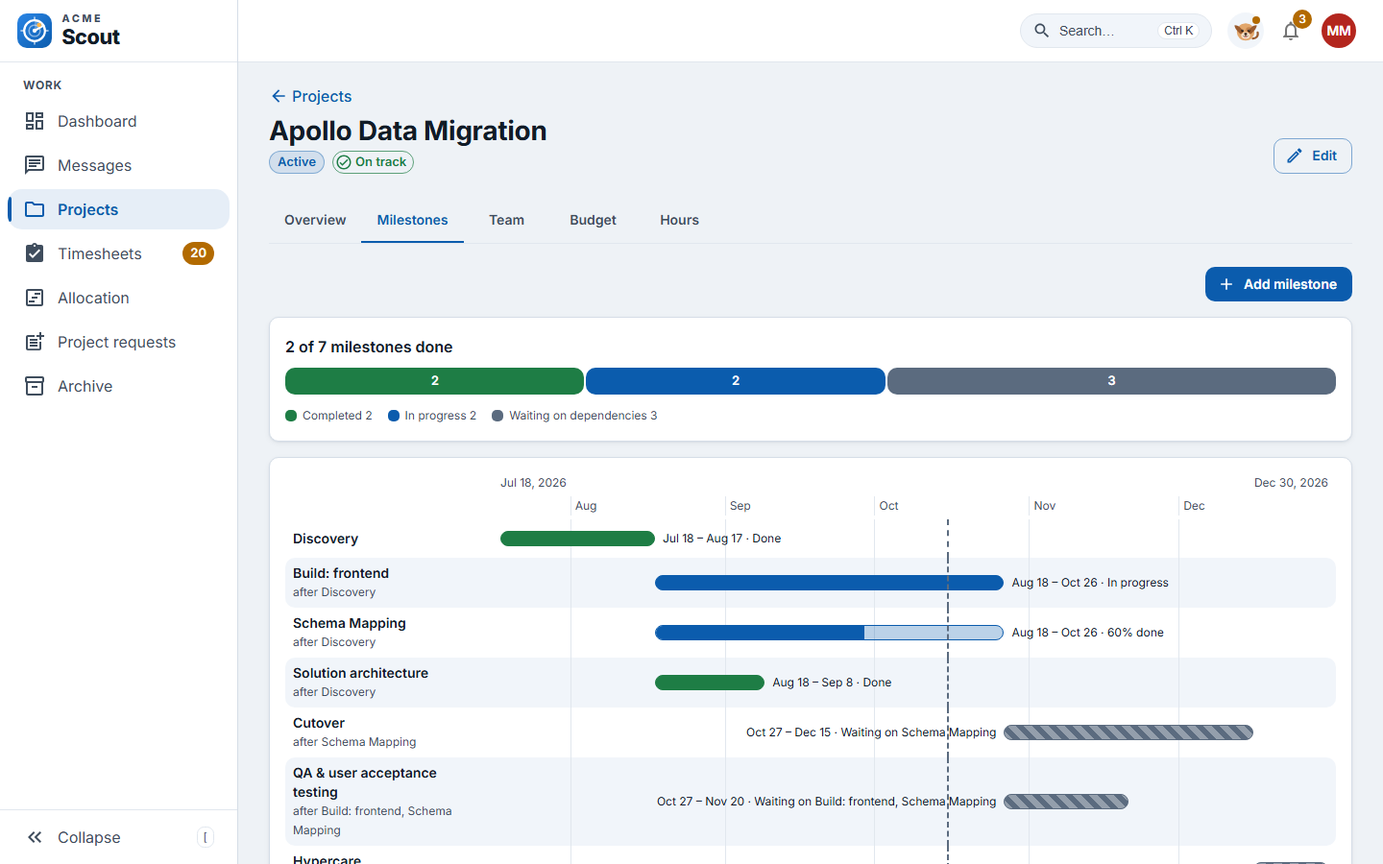
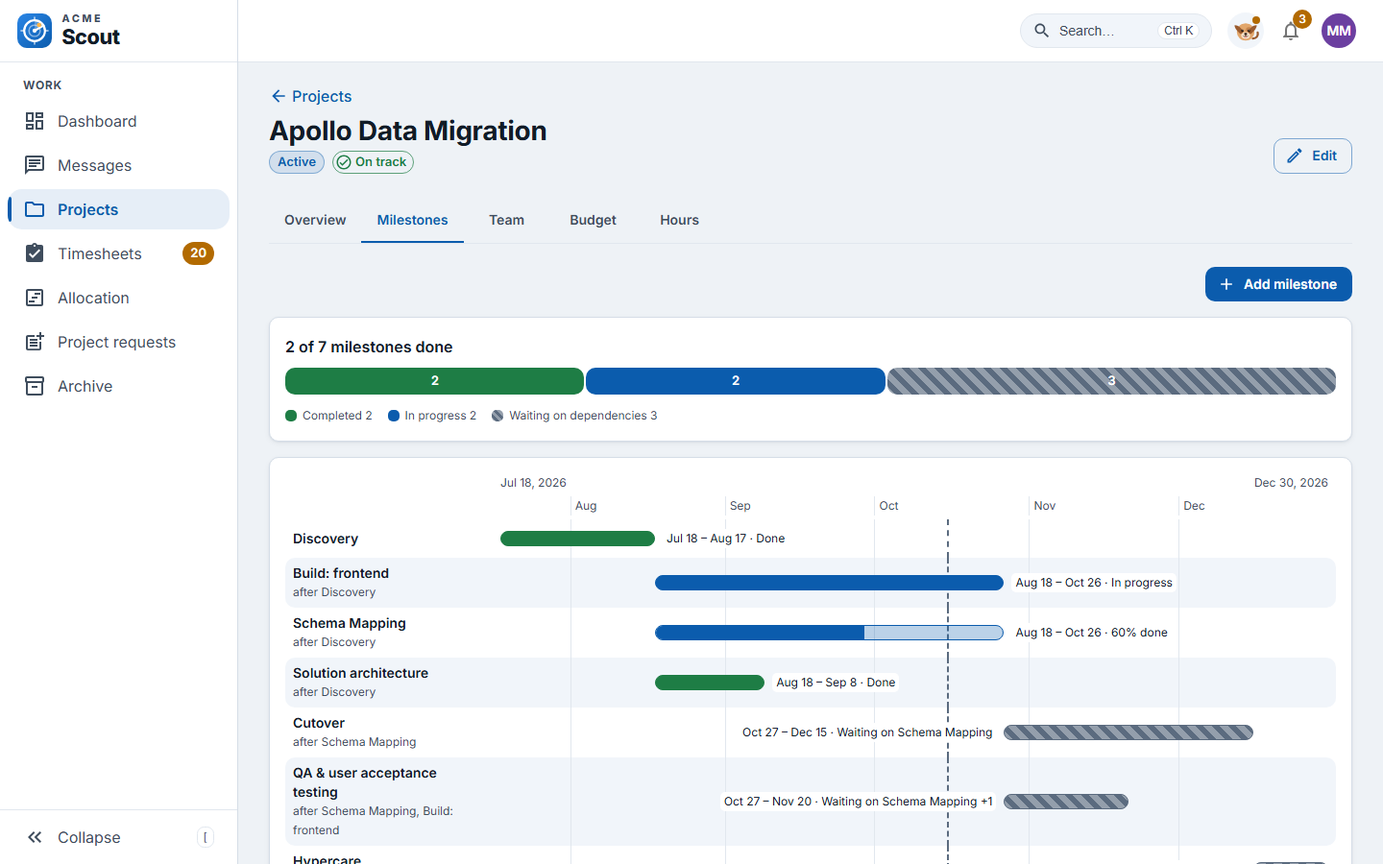
Readable charts: overdue mark never cut off, striped waiting and blocked in the state bar, no lines over labels on phones, a repeat click scrolls again

diff --git a/frontend/src/components/Timeline.jsx b/frontend/src/components/Timeline.jsx
@@ -5,13 +5,11 @@ import { chartPalette } from '../app/chartColors.js'
 import { STATUS, statusColor } from '../app/theme.js'
 import { formatDate, formatHours, todayIso } from '../lib/format.js'
 import { PRIORITY } from '../lib/labels.js'
+import { STRIPED, stripes } from './stateStripes.js'
 
 const DAY = 86400000
-// Striped bars: waiting on a predecessor, or kicked back and waiting for the manager.
-const STRIPED = new Set(['waiting', 'blocked'])
 // A name column beside the chart; under `sm` the name sits above its bar.
 const COLUMNS = { xs: 'minmax(0, 1fr)', sm: '200px minmax(0, 1fr)' }
-const stripes = (size) => `repeating-linear-gradient(45deg, rgba(255,255,255,.35) 0 ${size}px, transparent ${size}px ${size * 2}px)`
 const toTime = (iso) => Date.UTC(...String(iso).slice(0, 10).split('-').map((n, i) => (i === 1 ? Number(n) - 1 : Number(n))))
 const clamp = (n, lo, hi) => Math.min(Math.max(n, lo), hi)
 /** "2026-08-15" → "Aug 15" */
@@ -33,7 +31,7 @@ function monthMarks(start, span) {
   for (let t = Date.UTC(year, month, 1); t < start + span; t = Date.UTC(year, ++month, 1)) {
     const d = new Date(t)
     const name = d.toLocaleDateString('en-US', { month: 'short', timeZone: 'UTC' })
-    marks.push({ pct: ((t - start) / span) * 100, label: d.getUTCMonth() === 0 ? `${name} ${d.getUTCFullYear()}` : name })
+    marks.push({ pct: ((t - start) / span) * 100, january: d.getUTCMonth() === 0, label: d.getUTCMonth() === 0 ? `${name} ${d.getUTCFullYear()}` : name })
   }
   return marks
 }
@@ -67,17 +65,23 @@ function TimelineRow({ view, months, todayPct, onOpen }) {
   const filled = key === 'in_progress' && percent != null
   const clickable = Boolean(onOpen)
   // Beside the bar on `sm` and up; under it on a phone, or when the bar leaves no room on either side.
+  // On `sm` and up it sits on a paper-coloured halo, so the Today line and month lines never cross the text.
   const labelSx = placement === 'below' ? { mt: 0.25 } : {
     mt: { xs: 0.25, sm: 0 }, position: { xs: 'static', sm: 'absolute' }, top: { sm: '50%' }, transform: { sm: 'translateY(-50%)' },
     ...(placement === 'left'
-      ? { left: { sm: 0 }, right: { sm: `calc(${100 - from}% + 8px)` }, textAlign: { sm: 'right' } }
-      : { left: { sm: `calc(${from + width}% + 8px)` }, right: { sm: 0 } }),
+      ? { right: { sm: `calc(${100 - from}% + 8px)` }, maxWidth: { sm: `calc(${from}% - 8px)` }, justifyContent: { sm: 'flex-end' } }
+      : { left: { sm: `calc(${from + width}% + 8px)` }, maxWidth: { sm: `calc(${100 - from - width}% - 8px)` } }),
   }
   return (
-    <Tooltip describeChild placement="bottom-start" title={<RowTip view={view} />}>
+    <Tooltip describeChild disableInteractive placement="bottom-start" title={<RowTip view={view} />}>
       <Box component="li" tabIndex={0} aria-label={label}
         onClick={clickable ? () => onOpen(item) : undefined}
-        onKeyDown={clickable ? (e) => { if (e.key === 'Enter') onOpen(item) } : undefined}
+        onKeyDown={clickable ? (e) => {
+          if (e.key === 'Enter' || e.key === ' ') {
+            e.preventDefault() // Space must not scroll the page
+            onOpen(item)
+          }
+        } : undefined}
         sx={{ display: 'grid', gridTemplateColumns: COLUMNS, columnGap: 2, px: 1, borderRadius: 1, cursor: clickable ? 'pointer' : 'default',
           '&:nth-of-type(even)': { bgcolor: 'action.hover' }, '&:hover': { bgcolor: 'action.selected' } }}>
         <Box aria-hidden sx={{ minWidth: 0, alignSelf: 'center', pt: 0.75, pb: { xs: 0, sm: 0.75 } }}>
@@ -93,9 +97,16 @@ function TimelineRow({ view, months, todayPct, onOpen }) {
         </Box>
         <Box aria-hidden sx={{ position: 'relative', display: 'flex', flexDirection: 'column', justifyContent: 'center',
           minHeight: 40, pt: { xs: 0.5, sm: 0.75 }, pb: 0.75 }}>
-          {months.map((m) => (
-            <Box key={m.pct} sx={{ position: 'absolute', top: 0, bottom: 0, left: `${m.pct}%`, width: '1px', bgcolor: 'divider' }} />
-          ))}
+          {/* The lines: the whole cell on `sm` and up; on a phone only the bar strip, since the label sits under it. */}
+          <Box sx={{ position: 'absolute', top: 0, left: 0, right: 0, bottom: { sm: 0 }, height: { xs: 26, sm: 'auto' }, pointerEvents: 'none' }}>
+            {months.map((m) => (
+              <Box key={m.pct} sx={{ position: 'absolute', top: 0, bottom: 0, left: `${m.pct}%`, width: '1px', bgcolor: 'divider' }} />
+            ))}
+            {todayPct != null ? (
+              <Box sx={{ position: 'absolute', top: 0, bottom: 0, left: `${todayPct}%`, width: 0, borderLeft: 2, borderLeftStyle: 'dashed',
+                borderColor: (t) => chartPalette(t).reference }} />
+            ) : null}
+          </Box>
           <Box sx={{ position: 'relative', height: 16 }}>
             <Box className="bar" sx={{ position: 'absolute', left: `${from}%`, width: `${width}%`, top: 0, bottom: 0, boxSizing: 'border-box',
               borderRadius: 8, overflow: 'hidden', border: 1, borderColor: (t) => statusColor(meta, t),
@@ -104,13 +115,12 @@ function TimelineRow({ view, months, todayPct, onOpen }) {
               {filled ? <Box sx={{ width: `${percent}%`, height: '100%', bgcolor: (t) => statusColor(meta, t) }} /> : null}
             </Box>
           </Box>
-          {todayPct != null ? (
-            <Box sx={{ position: 'absolute', top: 0, bottom: 0, left: `${todayPct}%`, width: 0, borderLeft: 2, borderLeftStyle: 'dashed',
-              borderColor: (t) => chartPalette(t).reference }} />
-          ) : null}
-          <Typography variant="caption" component="div" noWrap sx={{ color: 'text.primary', ...labelSx }}>
-            {text}
-            {overdue ? <>{' · '}<Box component="span" sx={{ color: 'error.main', fontWeight: 600 }}>⚠ Overdue</Box></> : null}
+          <Typography variant="caption" component="div"
+            sx={{ color: 'text.primary', display: { sm: 'flex' }, alignItems: 'baseline', whiteSpace: { xs: 'normal', sm: 'nowrap' },
+              position: 'relative', zIndex: 1, bgcolor: { sm: 'background.paper' }, borderRadius: 0.5, px: { sm: 0.5 }, ...labelSx }}>
+            {/* The overdue mark is its own element, so ellipsis can cut the dates but never the mark. */}
+            <Box component="span" sx={{ minWidth: 0, overflow: { sm: 'hidden' }, textOverflow: { sm: 'ellipsis' } }}>{text}</Box>
+            {overdue ? <Box component="span" sx={{ flexShrink: 0, ml: 0.75, color: 'error.main', fontWeight: 600 }}>⚠ Overdue</Box> : null}
           </Typography>
         </Box>
       </Box>
@@ -151,12 +161,13 @@ export default function Timeline({ items, range, onOpen }) {
       completed: 'Done',
       in_progress: percent == null ? 'In progress' : `${percent}% done`,
       ready_for_review: 'Ready for review',
-      waiting: waitingOn.length ? `Waiting on ${waitingOn.join(', ')}` : 'Waiting',
+      waiting: waitingOn.length ? `Waiting on ${waitingOn[0]}${waitingOn.length > 1 ? ` +${waitingOn.length - 1}` : ''}` : 'Waiting',
       blocked: 'Blocked',
     }[key] ?? 'Not started'
     const label = [item.name, `${formatDate(item.start_date)} to ${formatDate(item.end_date)}`, meta.label,
       key !== 'completed' && percent != null ? `${percent}% done` : '', overdue ? 'overdue' : '',
-      PRIORITY[item.priority] ? `${PRIORITY[item.priority]} priority` : ''].filter(Boolean).join(', ')
+      key === 'waiting' && waitingOn.length ? `waiting on ${waitingOn.join(', ')}` : '',
+      PRIORITY[item.priority] ? `${PRIORITY[item.priority]} priority` : '', item.is_assignee ? 'yours' : ''].filter(Boolean).join(', ')
     return { item, key, meta, percent, overdue, after: before.map((p) => p.name), waitingOn, from, width, placement,
       text: `${shortDate(item.start_date)} – ${shortDate(item.end_date)} · ${state}`, label }
   })
@@ -174,7 +185,7 @@ export default function Timeline({ items, range, onOpen }) {
             <Typography variant="caption" sx={{ color: 'text.secondary' }}>{formatDate(range.end)}</Typography>
           </Stack>
           <Box sx={{ position: 'relative', height: 20 }}>
-            {months.map((m, i) => (i % labelEvery === 0 ? (
+            {months.map((m, i) => (i % labelEvery === 0 || m.january ? (
               <Typography key={m.pct} variant="caption" sx={{ position: 'absolute', top: 0, bottom: 0, left: `${m.pct}%`, pl: 0.5,
                 borderLeft: 1, borderColor: 'divider', color: 'text.secondary', whiteSpace: 'nowrap' }}>{m.label}</Typography>
             ) : null))}

diff --git a/frontend/src/components/timeline.test.jsx b/frontend/src/components/timeline.test.jsx
@@ -63,7 +63,12 @@ describe('Timeline', () => {
     ]} />)
     // Exactly one: the finished milestone and the one ending today are not late.
     expect(screen.getAllByText('⚠ Overdue')).toHaveLength(1)
-    expect(screen.getByText(/Aug 1 – Sep 30 · 40% done/)).toHaveTextContent('Aug 1 – Sep 30 · 40% done · ⚠ Overdue')
+    // The mark sits in its own element, outside the text that ellipsis can cut, and never shrinks.
+    const mark = screen.getByText('⚠ Overdue')
+    const dates = screen.getByText('Aug 1 – Sep 30 · 40% done')
+    expect(dates).not.toContainElement(mark)
+    expect(mark.parentElement).toBe(dates.parentElement)
+    expect(mark).toHaveStyle({ flexShrink: '0' })
     expect(row('Build')).toHaveAccessibleName('Build, Aug 1, 2026 to Sep 30, 2026, In progress, 40% done, overdue, High priority')
     expect(row('Plan')).not.toHaveAccessibleName(/overdue/)
     expect(row('Ship')).not.toHaveAccessibleName(/overdue/)
@@ -94,6 +99,43 @@ describe('Timeline', () => {
     expect(screen.getByText('Sep 1 – Oct 19 · Waiting on Discovery')).toBeInTheDocument()
     expect(within(row('Cutover')).getByText('after Discovery, Mapping')).toBeInTheDocument()
     expect(row('Cutover')).toHaveAccessibleName(/Waiting on dependencies/)
+  })
+
+  test('a milestone waiting on several others says "+1" on its bar, and keeps the full list in its name and tooltip', async () => {
+    const user = userEvent.setup()
+    renderWithProviders(<Timeline range={range} items={[
+      ms({ id: 'm1', name: 'Discovery', status: 'in_progress', display_status: 'in_progress' }),
+      ms({ id: 'm2', name: 'Mapping', status: 'in_progress', display_status: 'in_progress' }),
+      ms({ id: 'm3', name: 'Cutover', start_date: '2026-09-01', end_date: '2026-10-19', display_status: 'waiting', predecessors: ['m1', 'm2'] }),
+    ]} />)
+    expect(screen.getByText('Sep 1 – Oct 19 · Waiting on Discovery +1')).toBeInTheDocument()
+    expect(row('Cutover')).toHaveAccessibleName(/Waiting on dependencies, waiting on Discovery, Mapping/)
+    await user.hover(row('Cutover'))
+    expect(await screen.findByRole('tooltip')).toHaveTextContent('Waiting on Discovery, Mapping')
+  })
+
+  test('waiting and blocked bars and legend swatches are striped, the others plain', () => {
+    const { container } = renderWithProviders(<Timeline range={range} items={[
+      ms({ id: 'm1', name: 'Wait', display_status: 'waiting' }),
+      ms({ id: 'm2', name: 'Stuck', status: 'blocked', display_status: 'blocked' }),
+      ms({ id: 'm3', name: 'Plain' }),
+    ]} />)
+    const bars = container.querySelectorAll('.bar')
+    expect(bars[0].style.backgroundImage || getComputedStyle(bars[0]).backgroundImage).toContain('repeating-linear-gradient')
+    expect(getComputedStyle(bars[1]).backgroundImage).toContain('repeating-linear-gradient')
+    expect(getComputedStyle(bars[2]).backgroundImage).not.toContain('repeating-linear-gradient')
+  })
+
+  test('your own milestone is "yours" in its row name', () => {
+    renderWithProviders(<Timeline range={range} items={[ms({ id: 'm1', name: 'Build', is_assignee: true }), ms({ id: 'm2', name: 'Plan' })]} />)
+    expect(row('Build')).toHaveAccessibleName(/, Medium priority, yours$/)
+    expect(row('Plan')).not.toHaveAccessibleName(/yours/)
+  })
+
+  test('January keeps its label, and so the year, when a long range thins the month labels', () => {
+    renderWithProviders(<Timeline range={{ start: '2025-11-10', end: '2027-03-01' }} items={[ms({ id: 'm1', name: 'Build' })]} />)
+    expect(screen.getByText('Jan 2026', { exact: true })).toBeInTheDocument()
+    expect(screen.getByText('Jan 2027', { exact: true })).toBeInTheDocument()
   })
 
   test('focus shows the tooltip with people and hours against the estimate', async () => {
@@ -142,6 +184,16 @@ describe('Timeline', () => {
     await user.click(row('Plan'))
     expect(onOpen).toHaveBeenLastCalledWith(plan)
     expect(onOpen).toHaveBeenCalledTimes(2)
+  })
+
+  test('Space opens like Enter', async () => {
+    const user = userEvent.setup()
+    const onOpen = vi.fn()
+    const build = ms({ id: 'm1', name: 'Build' })
+    renderWithProviders(<Timeline range={range} items={[build]} onOpen={onOpen} />)
+    await user.tab()
+    await user.keyboard(' ')
+    expect(onOpen).toHaveBeenCalledWith(build)
   })
 
   test('click and Enter do nothing without onOpen', async () => {

diff --git a/frontend/src/features/milestones/MilestonesTab.jsx b/frontend/src/features/milestones/MilestonesTab.jsx
@@ -10,7 +10,7 @@ import {
   Alert, Box, Button, Card, CardContent, Chip, Collapse, IconButton, LinearProgress, Skeleton, Stack, Tooltip, Typography,
 } from '@mui/material'
 import { Fragment, useEffect, useRef, useState } from 'react'
-import { useSearchParams } from 'react-router-dom'
+import { useLocation, useSearchParams } from 'react-router-dom'
 import {
   useArchiveMilestone, useClaimMilestone, useMembers, useMilestones, useMilestoneStatus,
 } from '../../api/queries.js'
@@ -46,7 +46,7 @@ const PANELS = [
   { value: 'notes', label: 'Notes', Icon: ChatBubble },
 ]
 
-function MilestoneCard({ m, project, names, manage, onEdit, onArchive, extra, conversations, focused }) {
+function MilestoneCard({ m, project, names, manage, onEdit, onArchive, extra, conversations, focused, navKey }) {
   const status = useMilestoneStatus(m.project_id)
   const claim = useClaimMilestone(m.project_id)
   // A link straight to this milestone (from the bell) opens its details and scrolls it into view.
@@ -56,7 +56,7 @@ function MilestoneCard({ m, project, names, manage, onEdit, onArchive, extra, co
   const ref = useRef(null)
   useEffect(() => {
     if (focused) ref.current?.scrollIntoView?.({ behavior: 'smooth', block: 'start' })
-  }, [focused])
+  }, [focused, navKey]) // a repeat click on the same row is a new navigation, so it scrolls again
   const waitingOn = m.predecessors.map((id) => names[String(id)]).filter(Boolean)
   const supporting = new Set((m.supporting_ids ?? []).map(String))
   const actions = statusActions(m, { manager: manage, assignee: m.is_assignee })
@@ -182,6 +182,7 @@ export default function MilestonesTab({ project, manage, extra }) {
   const archive = useArchiveMilestone(project.id)
   const conversations = useConversations()  // which milestones already have a discussion the viewer is in
   const [params, setParams] = useSearchParams()
+  const navKey = useLocation().key
   const focus = params.get('milestone')
   const [editing, setEditing] = useState(null)
   const [archiving, setArchiving] = useState(null)
@@ -212,11 +213,11 @@ export default function MilestonesTab({ project, manage, extra }) {
       <MilestoneStatusBar items={items} />
       {items.length ? (
         <MilestoneTimeline items={items} range={{ start: project.start_date, end: project.predicted_end_date }}
-          onOpen={(m) => setParams((p) => { p.set('milestone', m.id); return p })} />
+          onOpen={(m) => setParams((p) => { p.set('milestone', m.id); return p }, { replace: true })} />
       ) : null}
       {items.map((m) => (
         <MilestoneCard key={m.id} m={m} project={project} names={names} manage={manage} extra={extra}
-          conversations={conversations.data?.items} focused={focus === String(m.id)}
+          conversations={conversations.data?.items} focused={focus === String(m.id)} navKey={navKey}
           onEdit={(milestone) => setEditing({ milestone })} onArchive={setArchiving} />
       ))}
       {editing ? (

diff --git a/frontend/src/components/MilestoneStatusBar.jsx b/frontend/src/components/MilestoneStatusBar.jsx
@@ -1,6 +1,7 @@
 import { Box, Paper, Stack, Tooltip, Typography } from '@mui/material'
 import { useEffect, useId, useState } from 'react'
 import { STATUS, statusColor } from '../app/theme.js'
+import { STRIPED, stripes } from './stateStripes.js'
 
 // The order the states read in, left to right.
 const ORDER = ['completed', 'ready_for_review', 'in_progress', 'not_started', 'waiting', 'blocked']
@@ -45,7 +46,7 @@ export default function MilestoneStatusBar({ items }) {
   return (
     <Paper component="section" variant="outlined" aria-labelledby={headingId} sx={{ p: 2 }}>
       <Typography id={headingId} variant="subtitle1" component="h3" sx={{ mb: 1 }}>
-        {`${counts.completed} of ${total} milestones done`}
+        {`${counts.completed} of ${total} ${total === 1 ? 'milestone' : 'milestones'} done`}
       </Typography>
       <Stack ref={barRef} direction="row" sx={{ gap: `${GAP}px`, height: 28 }}>
         {states.map((key) => {
@@ -56,7 +57,7 @@ export default function MilestoneStatusBar({ items }) {
               <Box role="img" aria-label={text} data-count={n}
                 sx={{ width: `${(n / total) * 100}%`, borderRadius: 1, display: 'flex', alignItems: 'center', justifyContent: 'center',
                   bgcolor: (t) => statusColor(STATUS[key], t), color: (t) => t.palette.getContrastText(statusColor(STATUS[key], t)),
-                  fontSize: '0.8125rem', fontWeight: 600, overflow: 'hidden' }}>
+                  fontSize: '0.8125rem', fontWeight: 600, overflow: 'hidden', backgroundImage: STRIPED.has(key) ? stripes(6) : 'none' }}>
                 {(n / total) * room >= MIN_LABEL ? n : null}
               </Box>
             </Tooltip>
@@ -67,7 +68,8 @@ export default function MilestoneStatusBar({ items }) {
         sx={{ listStyle: 'none', p: 0, m: 0, mt: 1.5, gap: 2, flexWrap: 'wrap' }}>
         {states.map((key) => (
           <Stack component="li" key={key} direction="row" sx={{ alignItems: 'center', gap: 0.75 }}>
-            <Box aria-hidden sx={{ width: 12, height: 12, borderRadius: 0.5, bgcolor: (t) => statusColor(STATUS[key], t) }} />
+            <Box aria-hidden sx={{ width: 12, height: 12, borderRadius: 0.5, bgcolor: (t) => statusColor(STATUS[key], t),
+              backgroundImage: STRIPED.has(key) ? stripes(3) : 'none' }} />
             <Typography variant="caption" sx={{ color: 'text.secondary' }}>{`${STATUS[key].label} ${counts[key]}`}</Typography>
           </Stack>
         ))}

diff --git a/frontend/src/components/milestoneStatusBar.test.jsx b/frontend/src/components/milestoneStatusBar.test.jsx
@@ -33,9 +33,28 @@ describe('MilestoneStatusBar', () => {
     ])
   })
 
+  test('the heading is singular for one milestone', () => {
+    const { unmount } = renderWithProviders(<MilestoneStatusBar items={[ms(1, 'completed')]} />)
+    expect(screen.getByRole('heading', { name: '1 of 1 milestone done' })).toBeInTheDocument()
+    unmount()
+    renderWithProviders(<MilestoneStatusBar items={[ms(1, 'in_progress')]} />)
+    expect(screen.getByRole('heading', { name: '0 of 1 milestone done' })).toBeInTheDocument()
+  })
+
+  test('waiting and blocked segments and swatches are striped so they differ from not started', () => {
+    const { container } = renderWithProviders(<MilestoneStatusBar items={[ms(1, 'not_started'), ms(2, 'waiting'), ms(3, 'blocked')]} />)
+    const [plain, waiting, blocked] = screen.getAllByRole('img')
+    const striped = (el) => getComputedStyle(el).backgroundImage.includes('repeating-linear-gradient')
+    expect(striped(plain)).toBe(false)
+    expect(striped(waiting)).toBe(true)
+    expect(striped(blocked)).toBe(true)
+    const swatches = [...container.querySelectorAll('ul [aria-hidden]')]
+    expect(swatches.map(striped)).toEqual([false, true, true])
+  })
+
   test('archived milestones are left out', () => {
     renderWithProviders(<MilestoneStatusBar items={[ms(1, 'completed'), ms(2, 'in_progress', { is_archived: true })]} />)
-    expect(screen.getByRole('heading', { name: '1 of 1 milestones done' })).toBeInTheDocument()
+    expect(screen.getByRole('heading', { name: '1 of 1 milestone done' })).toBeInTheDocument()
     expect(screen.getAllByRole('img')).toHaveLength(1)
     expect(screen.queryByText(/In progress/)).not.toBeInTheDocument()
   })

diff --git a/frontend/src/features/milestones/milestones.test.jsx b/frontend/src/features/milestones/milestones.test.jsx
@@ -153,6 +153,9 @@ describe('MilestonesTab', () => {
       expect(screen.getByTestId('location')).toHaveTextContent('?milestone=m3')
       await waitFor(() => expect(scroll).toHaveBeenCalledTimes(1))
       expect(scroll.mock.contexts[0]).toBe(await card('Cutover'))
+      // The same row again scrolls again, e.g. after the reader has scrolled away.
+      await userEvent.click(within(timeline).getByRole('listitem', { name: /^Cutover,/ }))
+      await waitFor(() => expect(scroll).toHaveBeenCalledTimes(2))
     } finally {
       delete HTMLElement.prototype.scrollIntoView
     }

diff --git a/frontend/src/components/stateStripes.js b/frontend/src/components/stateStripes.js
@@ -1,0 +1,4 @@
+// Waiting on a predecessor, or kicked back and waiting for the manager: drawn striped wherever a state has a colour,
+// so these never read as plain "not started" grey.
+export const STRIPED = new Set(['waiting', 'blocked'])
+export const stripes = (size) => `repeating-linear-gradient(45deg, rgba(255,255,255,.35) 0 ${size}px, transparent ${size}px ${size * 2}px)`

diff --git a/docs/project/TESTING.md b/docs/project/TESTING.md
@@ -12,10 +12,10 @@ The tests are built for **debugging**, not only for a green tick:
 | Rules (unit) | pytest | part of 364 unit tests | A business rule is wrong: at-risk, over-40, cycles, the capacity cap, usernames, milestone status, priority, routing, claims, planning checks, messaging permissions, insights, reminders, timers and rounding, timer drafts and locks, over-limit thresholds, proof of work, red flags, the PNG sanitiser, or the password policy. No database is involved |
 | Core (unit) | pytest | part of 364 unit tests | The HTTP envelope, router guards, request IDs, hashing and tokens, or the SES fail-fast behaviour |
 | API (integration) | pytest + real PostgreSQL 17 | 726 | An endpoint is wrong: permissions (401/403/404), the executive and public demo guards, validation, archiving, an audit row, a race-safe update, or what one role can see vs another |
-| Frontend (component) | Vitest + React Testing Library + MSW | 853 (68 files) | A screen is wrong: form gating, loading/empty/error states, role-based hiding, or the payload sent to the API |
+| Frontend (component) | Vitest + React Testing Library + MSW | 860 (68 files) | A screen is wrong: form gating, loading/empty/error states, role-based hiding, or the payload sent to the API |
 | End-to-end | Playwright | 3 journeys × 2 devices | The pieces don't fit together in a real browser: real API, real database, real cookies |
 
-Counts as of 2026-10-15: **1,090 backend** (364 unit, 726 integration, 97% coverage) and **853 frontend** in 68 files, plus **6 end-to-end**, all passing. Four date-dependent backend tests fail when the suite is run after 8 pm New York time (see [Known issue](#known-issue-date-dependent-backend-tests)). Results are under [Current results](#current-results-2026-10-15); older dated results further down are snapshots taken at the time.
+Counts as of 2026-10-15: **1,090 backend** (364 unit, 726 integration, 97% coverage) and **860 frontend** in 68 files, plus **6 end-to-end**, all passing. Four date-dependent backend tests fail when the suite is run after 8 pm New York time (see [Known issue](#known-issue-date-dependent-backend-tests)). Results are under [Current results](#current-results-2026-10-15); older dated results further down are snapshots taken at the time.
 
 **Fail-closed guard tests.** Two integration tests walk every registered write route (66 of 114 routes): [`test_public_demo.py`](../../backend/v1/tests/integration/test_public_demo.py) fails while any write route is neither allowed nor denied for the public demo admin, and [`test_executive.py`](../../backend/v1/tests/integration/test_executive.py) fails if the set of routes that let an executive write differs from the expected list, and checks that no executive response carries `salary` or `hourly_rate`. A new endpoint can't ship without a decision for both.
 
@@ -96,7 +96,7 @@ tests/integration: 726 tests
 
 # frontend: npx vitest run
  Test Files  68 passed (68)
-      Tests  853 passed (853)
+      Tests  860 passed (860)
 
 # frontend: npm run lint && npm run build
 no problems; built in 9.68s

diff --git a/docs/project/LOGIC_WALKTHROUGH.md b/docs/project/LOGIC_WALKTHROUGH.md
@@ -241,7 +241,7 @@ flowchart TD
 - **Code:** `creates_cycle()` and `dependency_order()` in [`app/rules/cycles.py`](../../backend/v1/app/rules/cycles.py). `dependency_order()` is a topological sort that the timeline uses, with ties broken by start date.
 - **Waiting on dependencies** is computed (the view's `blocked: true`, shown as `display_status: "waiting"`, "Waiting on dependencies"). A waiting milestone can't move out of `not_started` ([`app/rules/milestone_status.py`](../../backend/v1/app/rules/milestone_status.py)). Until migration 009 this showed as "Blocked"; *blocked* now means a kickback ([§9b](#9b-kickbacks-and-escalation)).
 - **Example:** with *Discovery → Schema Mapping → Cutover*, making *Discovery* depend on *Cutover* walks Cutover → Schema Mapping → Discovery. That reaches the milestone being edited, so the change is rejected.
-- **UI:** the dependency picker is in [`MilestoneDialog.jsx`](../../frontend/src/features/milestones/MilestoneDialog.jsx), and the charts on the Milestones tab: [`MilestoneStatusBar.jsx`](../../frontend/src/components/MilestoneStatusBar.jsx), one bar of the project's milestones by state headed "<done> of <total> milestones done", and the date bars in [`Timeline.jsx`](../../frontend/src/components/Timeline.jsx), on a month axis with "<Mon D> – <Mon D> · <state>" on every bar, a progress fill, an overdue mark and a "You" tag on your own milestones; clicking a bar (or pressing Enter) opens that milestone. On the Budget tab, [`MilestoneCostTable.jsx`](../../frontend/src/features/projects/MilestoneCostTable.jsx) draws each milestone's share of the budget as a bar scaled to the costliest milestone, which fills its bar, so the bars compare milestones while the percent stays the share of the whole budget.
+- **UI:** the dependency picker is in [`MilestoneDialog.jsx`](../../frontend/src/features/milestones/MilestoneDialog.jsx), and the charts on the Milestones tab: [`MilestoneStatusBar.jsx`](../../frontend/src/components/MilestoneStatusBar.jsx), one bar of the project's milestones by state headed "<done> of <total> milestones done", and the date bars in [`Timeline.jsx`](../../frontend/src/components/Timeline.jsx), on a month axis with "<Mon D> – <Mon D> · <state>" on every bar, a progress fill, an overdue mark and a "You" tag on your own milestones; clicking a bar (or pressing Enter or Space) sets `?milestone=` and scrolls to that milestone's card, which is highlighted with its details open; waiting and blocked are striped in both charts. On the Budget tab, [`MilestoneCostTable.jsx`](../../frontend/src/features/projects/MilestoneCostTable.jsx) draws each milestone's share of the budget as a bar scaled to the costliest milestone, which fills its bar, so the bars compare milestones while the percent stays the share of the whole budget.
 
 ## 8. The planned 40-hour cap
 

diff --git a/README.md b/README.md
@@ -12,7 +12,7 @@ Scout is a project tracking platform for ACME Inc. It gives admins, project mana
 |---|---|
 | **Live site** | https://d3ucnz03j0sngl.cloudfront.net |
 | **Stack** | React 19 · Material UI 9 · React Responsive · Python 3 on AWS Lambda · Aurora PostgreSQL 17 |
-| **Tests** | 1,090 backend (364 unit · 726 integration, 97% coverage) · 853 frontend component (68 files) · 6 end-to-end (3 journeys × desktop + mobile), all passing on 15 Oct — see [TESTING.md](docs/project/TESTING.md) |
+| **Tests** | 1,090 backend (364 unit · 726 integration, 97% coverage) · 860 frontend component (68 files) · 6 end-to-end (3 journeys × desktop + mobile), all passing on 15 Oct — see [TESTING.md](docs/project/TESTING.md) |
 | **Source** | https://github.com/RootMoataz/citi-overwatch (the repository keeps its original name for now) |
 
 ## What it does
@@ -167,7 +167,7 @@ Connection settings come from `POSTGRES_HOST`, `POSTGRES_PORT`, `POSTGRES_USER`,
 
 ```bash
 cd backend/v1 && python -m pytest --cov=app              # 1,090 unit + integration tests against local Postgres
-cd frontend && npm test                                  # 853 component tests (Vitest + Testing Library)
+cd frontend && npm test                                  # 860 component tests (Vitest + Testing Library)
 cd frontend && npx playwright install chromium webkit    # once
 cd frontend && npm run e2e                               # 3 journeys × desktop Chrome and iPhone 13 (WebKit)
 cd frontend && npm run lint

diff --git a/docs/project/DEMO_SCRIPT.md b/docs/project/DEMO_SCRIPT.md
@@ -265,7 +265,7 @@ Say:
 > salaries are stripped from every executive response; photos are rebuilt from checked pixels by a pure-Python PNG
 > sanitiser, so nothing uploaded is served as-is.
 >
-> Tests: 1,090 backend tests at 97% coverage, 853 frontend component tests, and 6 end-to-end runs on desktop and
+> Tests: 1,090 backend tests at 97% coverage, 860 frontend component tests, and 6 end-to-end runs on desktop and
 > iPhone, all passing on 15 October.
 >
 > Next: server-side email needs an SES endpoint, which is waiting on the instructors, and the GitHub repository gets
@@ -306,7 +306,7 @@ One open kickback per milestone and one running timer per person are enforced by
 submissions keep a frozen copy of each payroll CSV.
 
 **Testing strategy?** Test-first. Business rules are pure functions with exhaustive edge cases (364 unit tests).
-726 integration tests run against a real PostgreSQL 17, because mocks hide SQL bugs. 853 component tests use Vitest
+726 integration tests run against a real PostgreSQL 17, because mocks hide SQL bugs. 860 component tests use Vitest
 and MSW, where an unhandled request fails the test. 6 Playwright runs cover 3 journeys on desktop Chrome and iPhone
 13, all passing on 15 October. Two fail-closed tests walk every write route for the executive and demo-admin guards.
 

diff --git a/docs/project/USER_STORIES.md b/docs/project/USER_STORIES.md
@@ -206,7 +206,7 @@ Each panel is titled with the question it answers, and the panels are labelled r
 
 - **Success:**
   - A bar above the timeline shows the milestones by state, headed "<done> of <total> milestones done".
-  - Horizontal date bars appear in dependency order on a month axis, with a "Today" marker. Every bar reads "<Mon D> – <Mon D> · <state>", shows its progress, marks an overdue milestone and tags your own with "You"; clicking one opens it.
+  - Horizontal date bars appear in dependency order on a month axis, with a "Today" marker. Every bar reads "<Mon D> – <Mon D> · <state>", shows its progress, marks an overdue milestone and tags your own with "You"; clicking one (or pressing Enter or Space on it) scrolls to that milestone's card below and highlights it, opening its details.
   - Each milestone lists what it waits on, with a "Waiting on: …" tooltip on its disabled Start button.
 - **Empty:** "No milestones yet", with **Add milestone** for managers.
 
